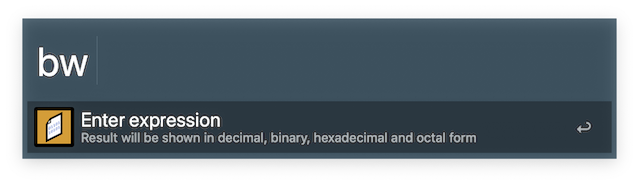
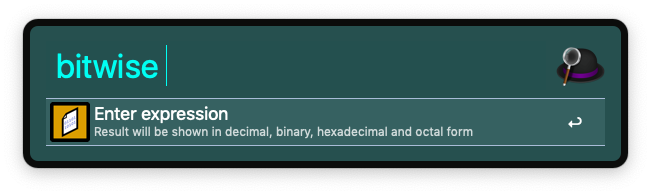
Custom keyword variable (#4)
* Custom keyword variable added
  - default value is 'bitwise'
  - can be changed in alfred workflow settings

* Update README.md

diff --git a/README.md b/README.md
@@ -6,14 +6,17 @@
 2) All further updates are handled automatically.
 
 ## Usage
-In Alfred, type `bw` and enter your bitwise expression which shall be evaluated.
+In Alfred, type `bitwise` and enter your bitwise expression which shall be evaluated.
+
 ![bitwise evaluate](doc/images/bw-enter-expression.png?raw=true "")
 
-Action the relevant item with the command key and corresponding number to copy it to your clipboard:
+Selected result is copied to your clipboard.
+
 ![bitwise show all](doc/images/bw-valid-expression.png?raw=true "")
 
 Expression is being evaluated as you type the expression. If expression cannot be evaluated, either for illegal characters or syntax error, user will be notified about that.
-![bitwise show all error](doc/images/bw-invalid-expression.png?raw=true "")
+
+![bitwise show error](doc/images/bw-invalid-expression.png?raw=true "")
 
 
 ## Bitwise expression syntax and operators precedence
@@ -40,6 +43,10 @@ The four formats listed below are printed.
 | Hexadecimal    |     0x1234     |
 | Octal          |      01234     |
 
+## Workflow Keyword
+The default workflow keyword `bitwise` could be changed in alfred workflow settings. This variable will not be overwritten once the new workflow update is installed.
+
+![bitwise workflow configuration](doc/images/bw-settings.png?raw=true "")
 
 ## Note
 Before the expression is evaluated, input data will be checked for illegal characters. If those are found, evaluation will not continue. This is done for making the workflow harmless. If you remove this check, you could evaluate any Perl code, which could be pretty dangerous. Do that only if you know what you are doing!!!
